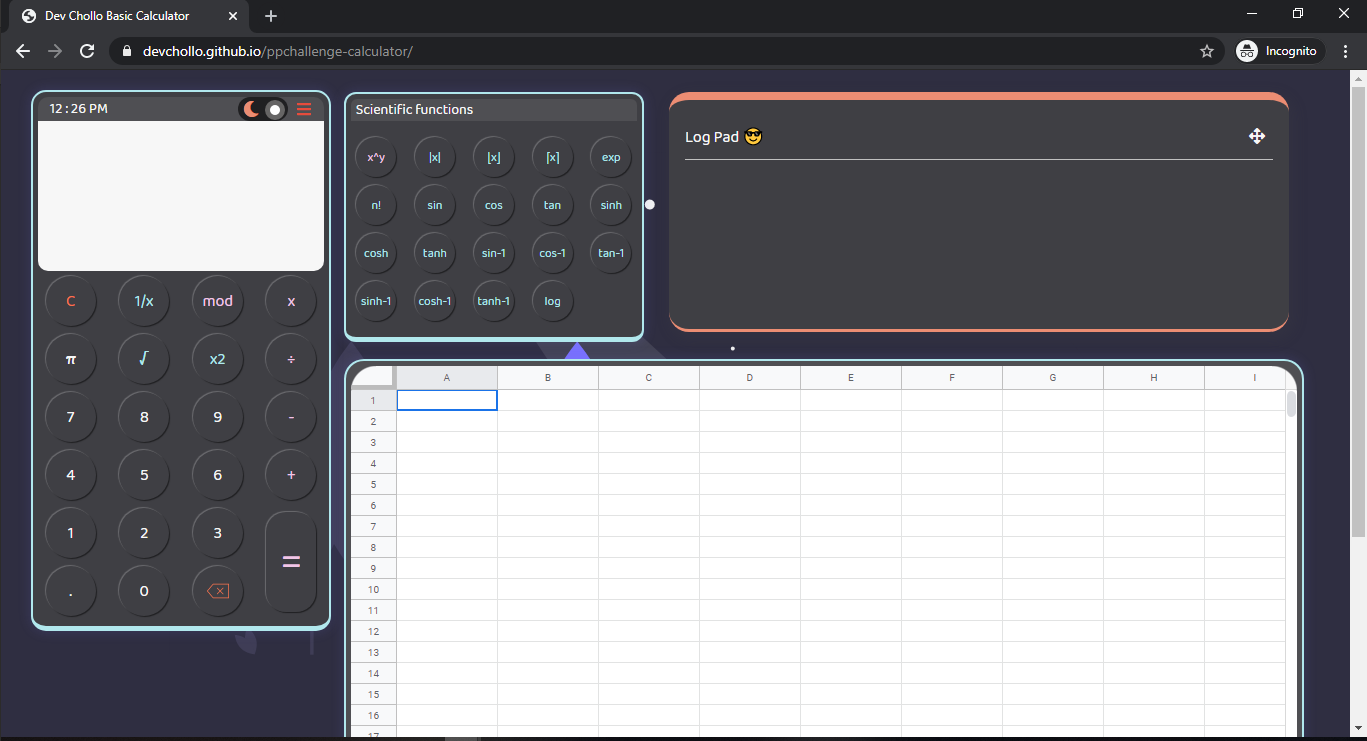
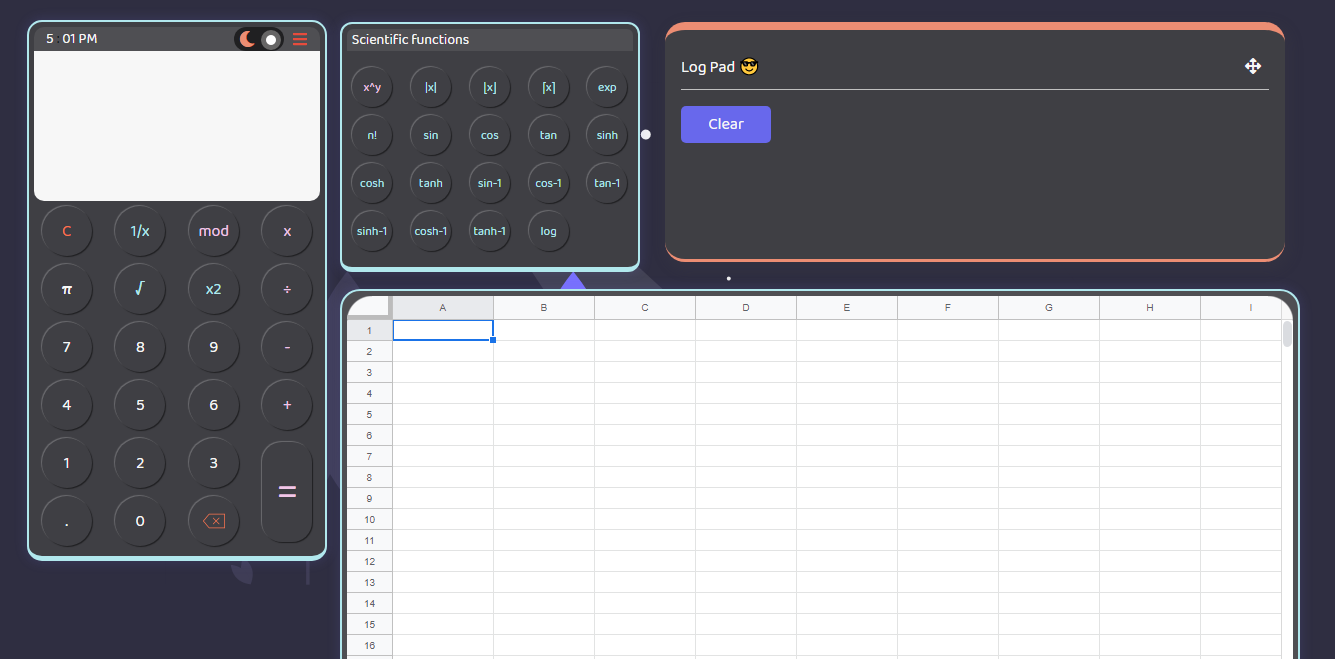
bug fix

diff --git a/js/main.js b/js/main.js
@@ -86,6 +86,8 @@ class Calculator {
         // the currentTextViewer will be set to empty string;
         this.readyToReset = true;
         this.currentOperand  = result;
+        // set the this.result to the result for the log pad
+        this.result = result;
         this.operation = undefined;
         this.previousOperand  = '';
     }
@@ -170,12 +172,16 @@ class Calculator {
         this.currentOperand = espresult;
         this.operation = undefined;
         this.espSymbol = esp;
+        // set the this.result to currentviewer inner text for the log pad
+        this.result = this.currTextViewer.innerHTML;
     }
 
-    // factorial function
+    // factorial function 
     factorial(input) {
+        // dont proceed if the input is negative
         if(input < 0) return;
-        let num = Math.ceil(input);
+        // round up the input to be calculated
+        let num = Math.round(input);
         let res = 1;
         for(let i = 1; i <= num; ++i) res *= i;
         return res;
@@ -192,6 +198,7 @@ class Calculator {
         this.currentOperand = '';
         this.previousOperand = '';
         this.operation = undefined;
+        this.espSymbol = undefined;
     }
 
     //get display
@@ -231,7 +238,9 @@ class Calculator {
 
     // especial buttons logging
     log(logPad) {
-        this.data = `✓ ${this.espSymbol}(${this.curr}) = ${this.total}`;
+        // if the current text viewer is empty dont proceed
+        if(this.currTextViewer.innerHTML === '') return;
+        this.data = `✓ ${this.espSymbol}(${this.result}) = ${this.total}`;
         this.node = document.createElement('LI');
         this.nodeVal = document.createTextNode(this.data);
         this.node.appendChild(this.nodeVal);
@@ -241,6 +250,9 @@ class Calculator {
 
     // for logging every press 
     Basiclog(logPad) {
+        // if the current text viewer is empty dont proceed
+
+        if(this.currTextViewer.innerHTML === '') return;
         this.data = `✓ ${this.prev} ${this.symbol} ${this.curr} = ${this.total}`;
         this.node = document.createElement('LI');
         this.nodeVal = document.createTextNode(this.data);

diff --git a/js/drag.js b/js/drag.js
@@ -1,24 +1,22 @@
-//Make the DIV element draggagle:
+//Make the DIV element draggable:
 dragElement(document.getElementById("dragCont"));
 
 function dragElement(elmnt) {
   var pos1 = 0, pos2 = 0, pos3 = 0, pos4 = 0;
   if (document.getElementById(elmnt.id + "dragHead")) {
-    /* if present, the header is where you move the DIV from:*/
     document.getElementById(elmnt.id + "dragHead").onmousedown = dragMouseDown;
   } else {
-    /* otherwise, move the DIV from anywhere inside the DIV:*/
     elmnt.onmousedown = dragMouseDown;
   }
 
   function dragMouseDown(e) {
     e = e || window.event;
     e.preventDefault();
-    // get the mouse cursor position at startup:
+    // get the mouse cursor position at startup
     pos3 = e.clientX;
     pos4 = e.clientY;
     document.onmouseup = closeDragElement;
-    // call a function whenever the cursor moves:
+    // call a function whenever the cursor moves
     document.onmousemove = elementDrag;
   }
 
@@ -36,7 +34,7 @@ function dragElement(elmnt) {
   }
 
   function closeDragElement() {
-    /* stop moving when mouse button is released:*/
+    // stop moving when the button is released
     document.onmouseup = null;
     document.onmousemove = null;
   }

diff --git a/README.md b/README.md
@@ -1,13 +1,13 @@
 # Battle of Calcus :tada:
-> HTML - CSS - JS
+> HTML - CSS - JS 
 
-> Add me on facebook: 
+> Add me on facebook: :blue_heart:
 [https://www.facebook.com/stfurtrd](https://www.facebook.com/stfurtrd)
 
-> Follow me on Instagram: 
+> Follow me on Instagram: :green_heart:
 [https://www.instagram.com/real_vals_28/](https://www.instagram.com/real_vals_28/)
 
-> Follow me on Twitter: 
+> Follow me on Twitter: :purple_heart:
 [https://twitter.com/kent_sevillejo](https://twitter.com/kent_sevillejo)
 
 #### Note: This site is ideal only for those who have a screen size greater than 1280px !
@@ -29,8 +29,14 @@
 - [x] Night Mode & Day Mode
 - [x] Google Spreadsheet
 
-> Update
+> Updates and Bug fix
 - [x] Added Clear button for the Log Pad
+- [x] Bug fixed for the logpad still showing result without input
+
+
+> If bug is found, please contact me thru my facebook messenger thankyouu :heartpulse:
+
+
 
 
 > Challenge from Programming Philippines Group
